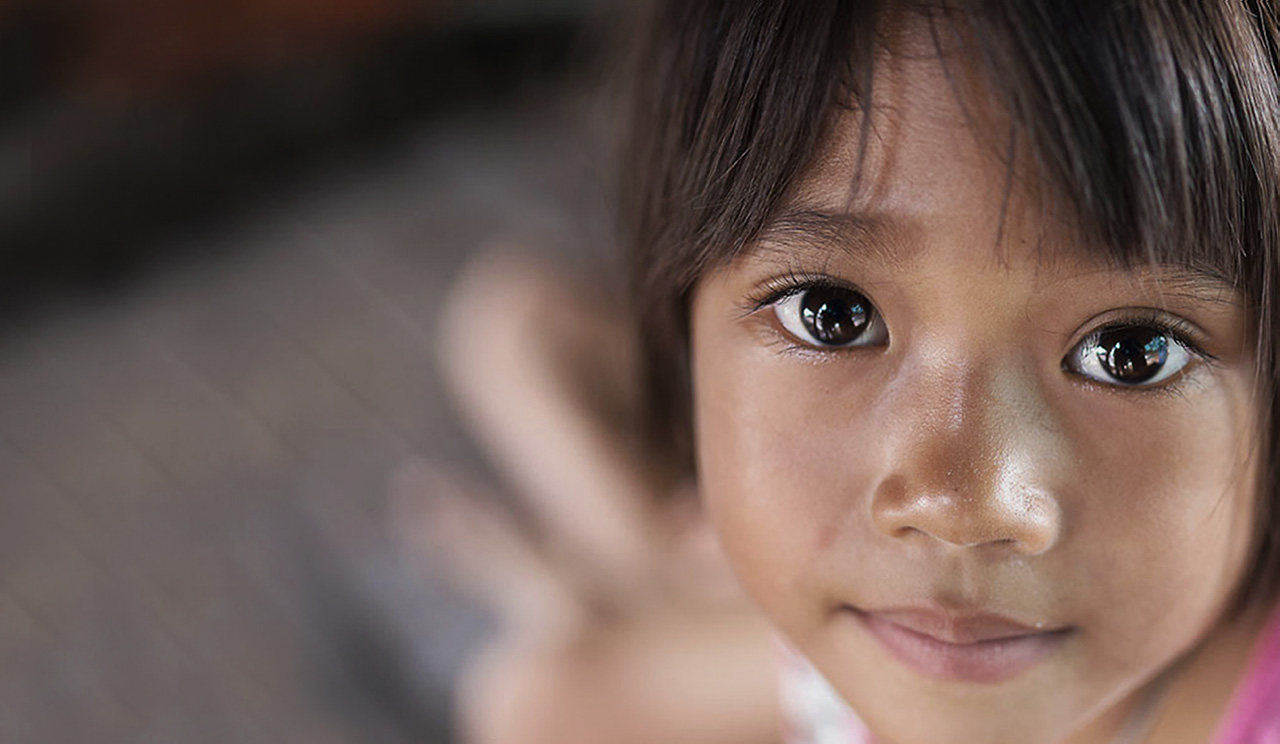
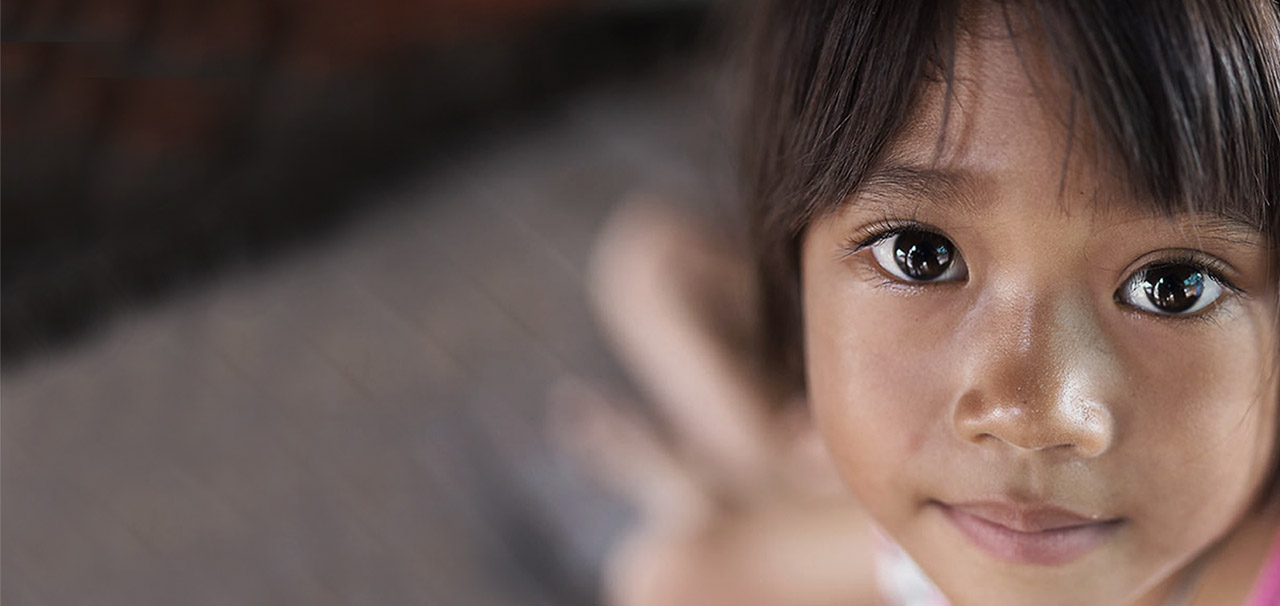
Fix responsive image on header

diff --git a/_source/stylesheets/pages/_home.scss b/_source/stylesheets/pages/_home.scss
@@ -15,26 +15,22 @@
 	@include media('>=4col') {
 		padding-top: $line-height * 1rem;
 		padding-right: $line-height * 2rem;
-		padding-bottom: $line-height * 1rem;
 		padding-left: $line-height * 2rem;
 		margin-left: $line-height * 1rem;
 	}
 	@include media('>=6col') {
-		padding-top: $line-height * 1.5rem;
-		padding-right: span(0.5)/ 1em * 1rem;
-		padding-bottom: $line-height * 1.5rem;
-		padding-left: span(0.5)/ 1em * 1rem;
+		padding-top: $line-height * 1rem;
+		padding-right: $line-height * 1.5rem;
+		margin-left: $line-height * 1.5rem;
 	}
 	@include media('>=8col') {
 		padding-top: $line-height * 2rem;
-		padding-right: span(0.8)/ 1em * 1rem;
-		padding-bottom: $line-height * 2rem;
+		padding-right: $line-height * 2rem;
 		margin-left: $line-height * 1rem;
 	}
 	@include media('>=10col') {
 		padding-top: $line-height * 3rem;
-		padding-right: span(1)/ 1em * 1rem;
-		padding-bottom: $line-height * 3rem;
+		padding-right: $line-height * 3rem;
 		margin-left: $line-height * 2rem;
 	}
 }
@@ -101,7 +97,12 @@ h5 {
 	}
 }
 
-
+p {
+	@include media('<=4col') {
+		margin-right: 0;
+		margin-left: 0;
+	}
+}
 
 /* home
 ---------------------------------------------------------------------------- */
@@ -126,27 +127,27 @@ h5 {
 		background-image: image('girl--640w.jpg');
 	}
 	@include media('>=768px') {
-		@include aspect-ratio (768 x 465);
+		@include aspect-ratio (768 x 510);
 
 		background-image: image('girl--768w.jpg');
 	}
 	@include media('>=1024px') {
-		@include aspect-ratio (1024 x 590);
+		@include aspect-ratio (1024 x 585);
 
 		background-image: image('girl--1024w.jpg');
 	}
 	@include media('>=1280px') {
-		@include aspect-ratio (1280 x 744);
+		@include aspect-ratio (1280 x 606);
 
 		background-image: image('girl--1280w.jpg');
 	}
 	@include media('>=1600px') {
-		@include aspect-ratio (1600 x 930);
+		@include aspect-ratio (1600 x 758);
 
 		background-image: image('girl--1600w.jpg');
 	}
 	@include media('>=1900px') {
-		@include aspect-ratio (1900 x 1104);
+		@include aspect-ratio (1900 x 900);
 
 		background-image: image('girl--1900w.jpg');
 	}
@@ -164,25 +165,19 @@ h5 {
 		padding-bottom: $line-height * 1rem;
 	}
 	@include media('>=4col') {
-		padding-top: span(1.2) / 1em * 1rem;
+		padding-top: span(1.3) / 1em * 1rem;
+		padding-bottom: 0;
 		padding-left: $line-height * 1.5rem;
-		margin-right: auto;
 	}
 	@include media('>=5col') {
-		padding-top: span(1.4) / 1em * 1rem;
+		padding-top: span(1.5) / 1em * 1rem;
 		padding-left: $line-height * 2rem;
-		margin-right: auto;
 	}
 	@include media('>=6col') {
-		padding-top: span(1.5) / 1em * 1rem;
+		padding-top: span(1.7) / 1em * 1rem;
 		padding-left: span(0.5)/ 1em * 1rem;
 	}
-	@include media('>=8col') {
-		padding-top: span(1.9) / 1em * 1rem;
-		padding-left: span(0.9)/ 1em * 1rem;
-	}
 	@include media('>=9col') {
-		padding-top: span(2) / 1em * 1rem;
 		padding-left: span(1)/ 1em * 1rem;
 	}
 }
@@ -234,7 +229,7 @@ h5 {
 
 			padding: 0;
 
-			background-image: image('project-trees--768w.jpg');
+			background-image: image('project-trees--800w.jpg');
 			background-position: 50%;
 			background-size: cover;
 		}
@@ -242,16 +237,21 @@ h5 {
 		&::after {
 			position: absolute;
 			top: 60%;
-			right: 47%;
+			right: 50%;
 
 			z-index: 1;
 
-			margin-right: -X;
+			margin-right: span(1) / -2em * 1rem;
 
 			content: image('kids-630w.jpg');
 		}
 	}
+	@include media('>=10col') {
+		background-image: image('project-trees--900w.jpg');
+	}
 }
+
+
 
 .project .content-container {
 	clear: left;

diff --git a/_source/stylesheets/layout/_header.scss b/_source/stylesheets/layout/_header.scss
@@ -44,7 +44,7 @@
 	background-image: image('logo-200w.png');
 	background-position: center;
 
-	@include media ('>=4col') {
+	@include media ('>=3col') {
 		background-image: image('logo-250w.png');
 	}
 	@include media ('>=6col') {
